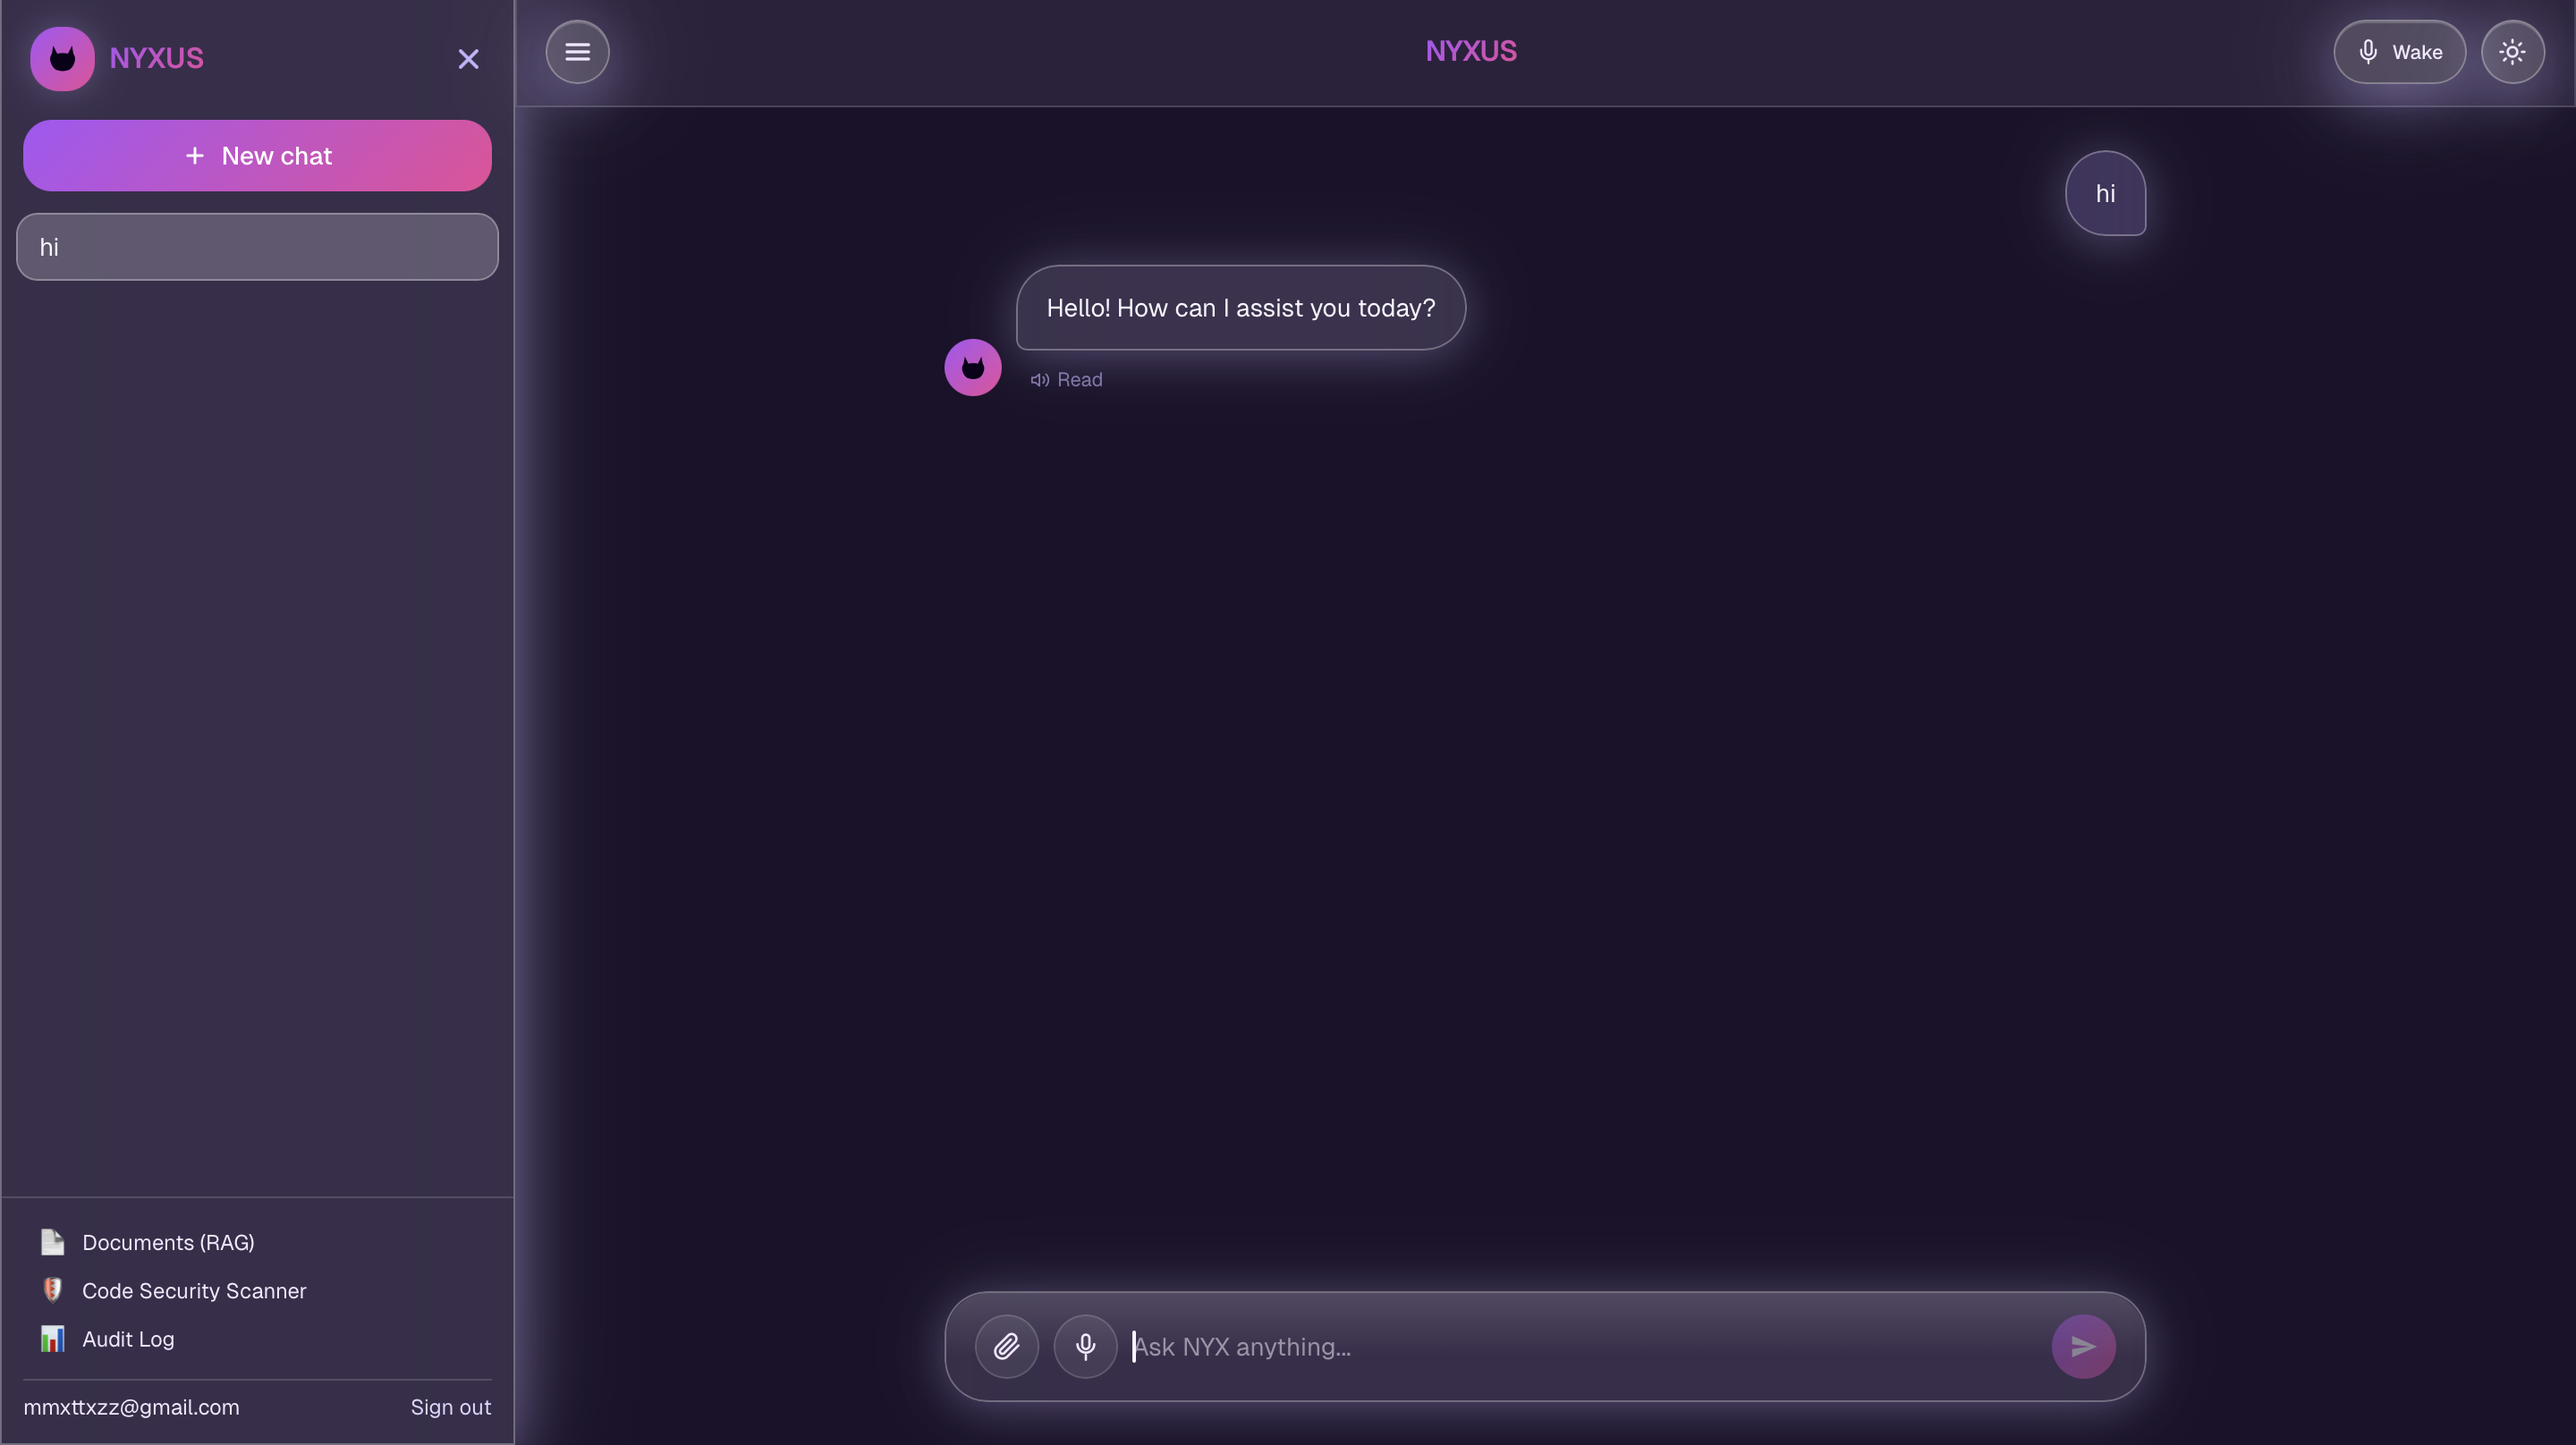
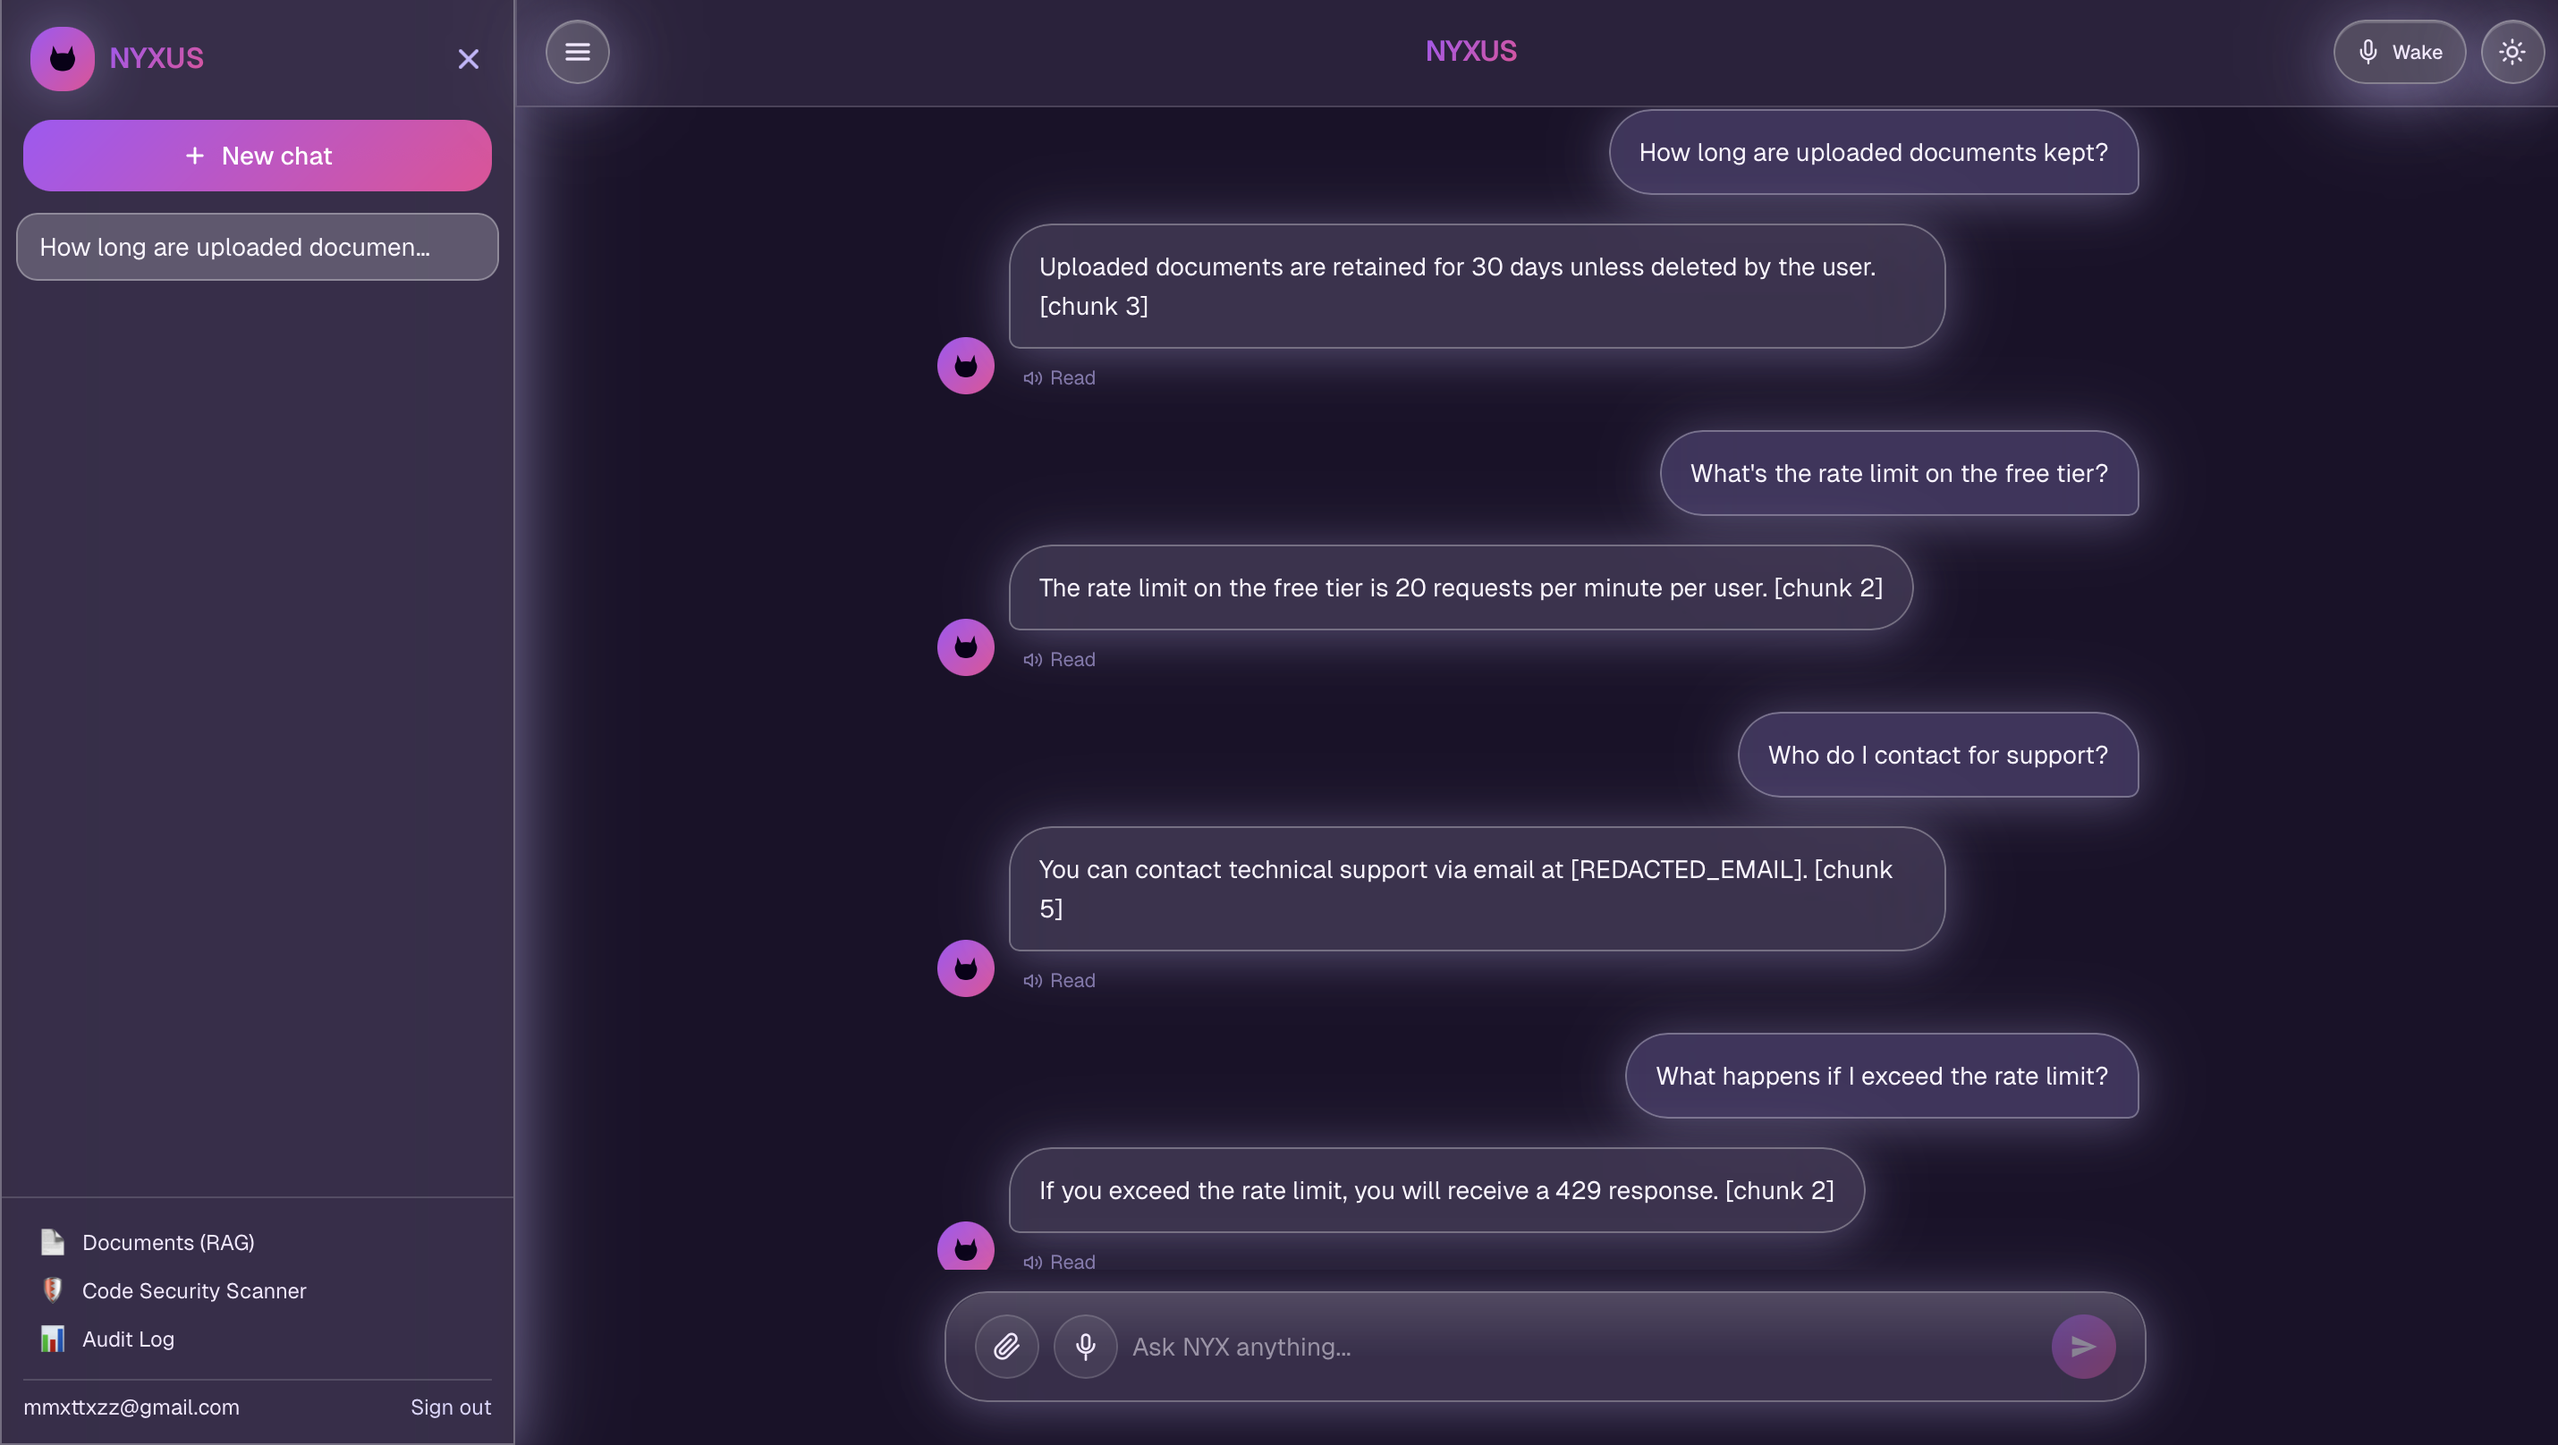
docs: add audit log, code scanner, and RAG chat screenshots

diff --git a/README.md b/README.md
@@ -19,9 +19,13 @@ authentication, retrieval-augmented generation, and applied AI security**.
 
 ## Screenshots
 
-| Login | Chat |
+| Login | Chat — RAG retrieval + PII redaction |
 |---|---|
-| ![Login screen](docs/login.png) | ![Chat UI with sidebar](docs/chat.png) |
+| ![Login screen](docs/login.png) | ![Chat answering questions from an uploaded policy doc, with chunk citations and a redacted email](docs/chat.png) |
+
+| OWASP code scanner | Audit log |
+|---|---|
+| ![JSON findings from scanning a vulnerable Flask app — SQL injection, hardcoded secrets, command injection, etc.](docs/security-scan.png) | ![Append-only audit log showing chat.send, conversation.create, security.scan actions with IP and timestamp](docs/audit.png) |
 
 ---
 
